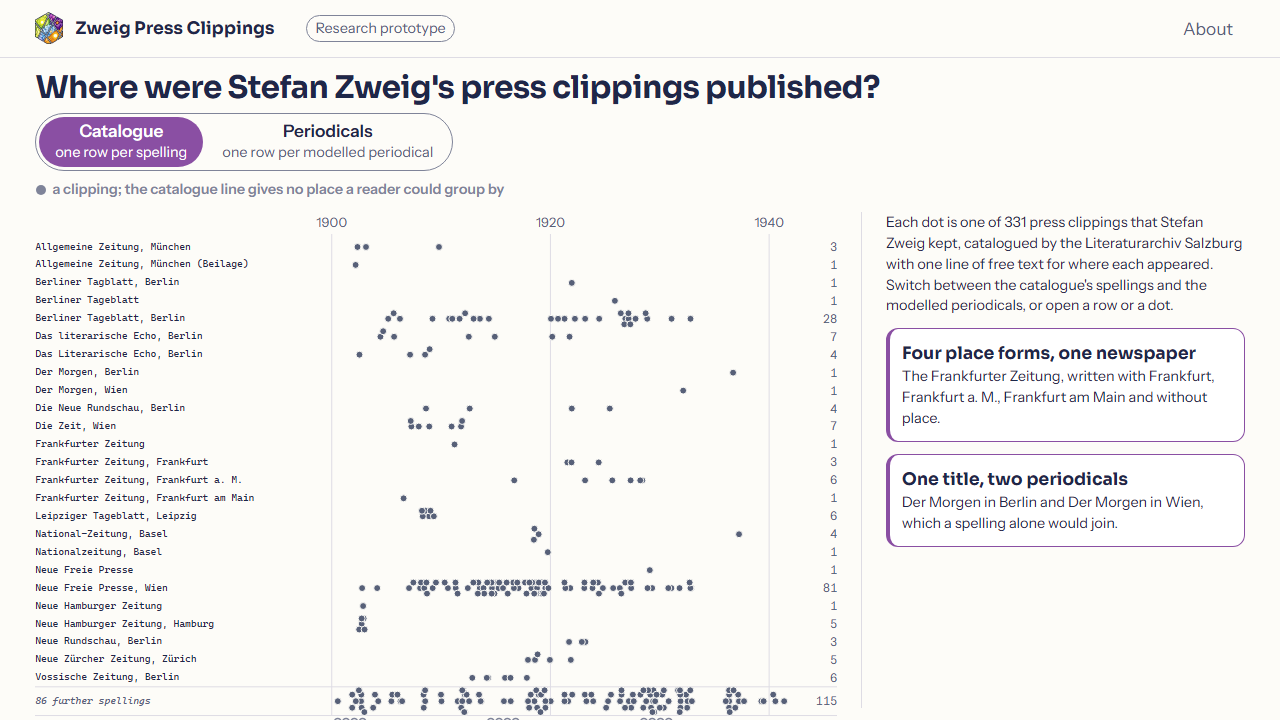
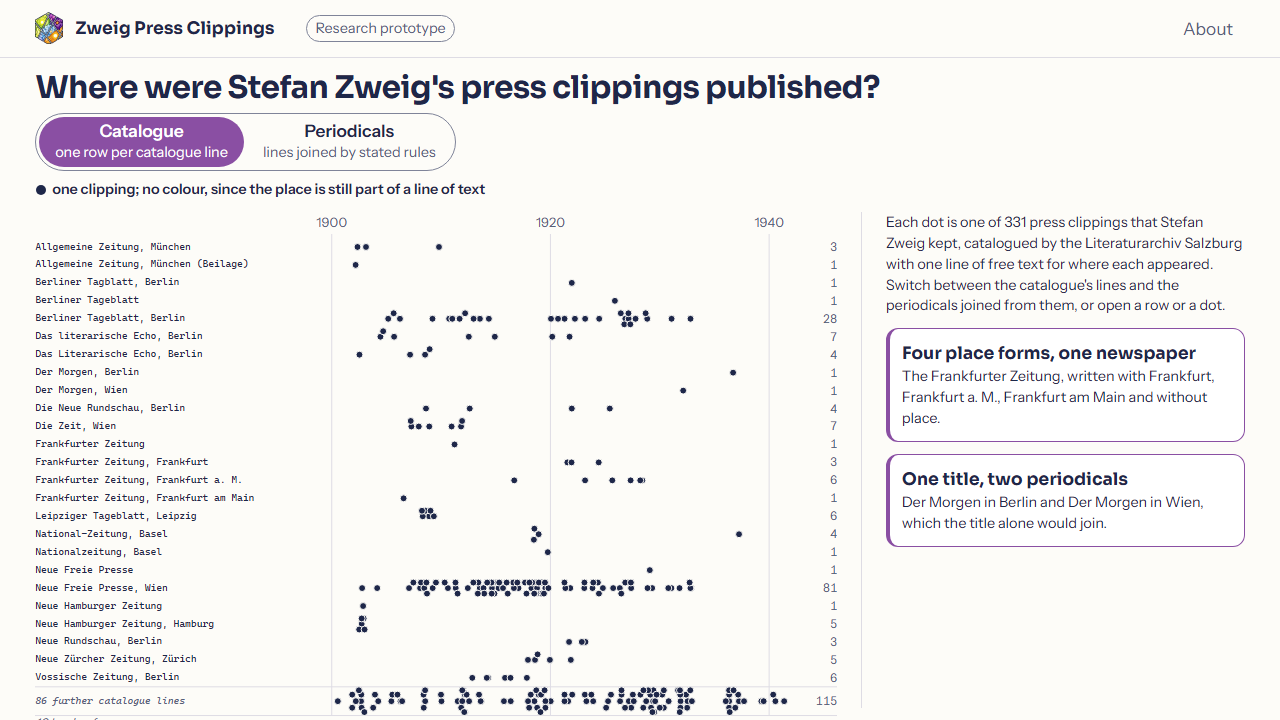
Fix keyboard focus, switch tab stop and not-read lanes; clarify wording after a second reading

diff --git a/docs/app.js b/docs/app.js
@@ -11,7 +11,7 @@ const MONTHS = ["January", "February", "March", "April", "May", "June", "July", 
   "September", "October", "November", "December"];
 const NOT_READ = [
   { status: "book", label: "book references" },
-  { status: "unread", label: "unread lines" },
+  { status: "unread", label: "lines the parser could not read" },
   { status: "none", label: "without publication line" },
 ];
 
@@ -70,7 +70,7 @@ function buildRows() {
   }
   const restForms = new Set(periodicals.filter((it) => !shownIds.has(it.entity)).map(written));
   const catalogue = [...forms.values()].sort((a, b) => a.label.localeCompare(b.label, "de"));
-  catalogue.push({ key: "rest", kind: "rest", label: `${restForms.size} further spellings`, entities: rest });
+  catalogue.push({ key: "rest", kind: "rest", label: `${restForms.size} further catalogue lines`, entities: rest });
   catalogue.push({ key: "notread", kind: "notread", label: "Not read as a periodical" });
 
   rowOf = (it, mode) => {
@@ -125,9 +125,12 @@ function positions(mode, L) {
     if (key === "notread") {
       const k = NOT_READ.findIndex((g) => g.status === it.status);
       const n = notread[it.status]++;
-      const perLine = Math.max(4, Math.floor((slotW - 150) / (r * 2.4)));
-      x = L.plotX0 + k * slotW + 6 + (n % perLine) * r * 2.4;
-      y = g.y + r + 3 + Math.floor(n / perLine) * r * 2.4;
+      // One lane per group; its label stands in the label column at the same height.
+      const step = r * 2.4;
+      const perLine = Math.max(4, Math.floor((L.plotX1 - L.plotX0 - 8) / step));
+      const lane = g.h / NOT_READ.length;
+      x = L.plotX0 + 4 + (n % perLine) * step;
+      y = g.y + (k + 0.5) * lane + Math.floor(n / perLine) * step;
     } else {
       x = xOf(it.date, L);
       const bin = `${key}|${Math.round(x / (r * 2.1))}`;
@@ -144,7 +147,7 @@ function positions(mode, L) {
 }
 
 // Group rows get more height: the remainder holds many periodicals, the not-read group holds
-// undated dots in a small grid with its counts written under them.
+// undated dots in three lanes, one per kind.
 function weightOf(row) {
   return row.kind === "notread" ? 3.2 : row.kind === "rest" ? 1.6 : 1;
 }
@@ -213,13 +216,6 @@ function render() {
   }
   const notes = svg.querySelector(".notes");
   notes.replaceChildren();
-  const nr = P.geo.byKey.get("notread");
-  const slotW = (L.plotX1 - L.plotX0) / 3;
-  NOT_READ.forEach((g, k) => {
-    const n = data.status[g.status] ?? 0;
-    const t = svgEl("text", { class: "groupnote", x: L.plotX0 + k * slotW + 6, y: nr.y + nr.h - 6 }, notes);
-    t.textContent = `${n} ${g.label}`;
-  });
 
   const dots = svg.querySelector(".dots");
   // The first placement and every resize set positions without animation; only a mode switch animates.
@@ -252,8 +248,8 @@ function render() {
 function renderKey() {
   const sw = (c, t) => `<span class="sw c-text-${c}"><svg aria-hidden="true" width="12" height="12"><circle cx="6" cy="6" r="5" fill="currentColor"/></svg>${t}</span>`;
   $("#key").innerHTML = state.mode === "model"
-    ? `Place of publication ${sw("Wien", "Wien")} ${sw("Berlin", "Berlin")} ${sw("other", "other places")} ${sw("unknown", "unknown")}<span class="sw">${icon("merge")}spellings joined</span><span class="sw">${icon("split")}one title, two periodicals</span>`
-    : `<span class="sw c-text-unknown"><svg aria-hidden="true" width="12" height="12"><circle cx="6" cy="6" r="5" fill="currentColor"/></svg>a clipping; the catalogue line gives no place a reader could group by</span>`;
+    ? `Place of publication ${sw("Wien", "Wien")} ${sw("Berlin", "Berlin")} ${sw("other", "other places")} ${sw("unknown", "unknown")}<span class="sw">${icon("merge")}written forms joined</span><span class="sw">${icon("split")}one title, two periodicals</span>`
+    : `<span class="sw c-text-catalogue"><svg aria-hidden="true" width="12" height="12"><circle cx="6" cy="6" r="5" fill="currentColor"/></svg>one clipping; no colour, since the place is still part of a line of text</span>`;
 }
 
 function renderLabels(rows, L, P) {
@@ -272,11 +268,14 @@ function renderLabels(rows, L, P) {
     b.type = "button";
     b.className = `rowlabel${row.kind === "rest" || row.kind === "notread" ? " group" : ""}`;
     b.style.top = `${g.y}px`;
-    b.style.blockSize = `${Math.min(g.h, P.rowH * 1.6)}px`;
+    b.style.blockSize = `${row.kind === "notread" ? g.h : Math.min(g.h, P.rowH * 1.6)}px`;
+    if (row.kind === "notread") b.setAttribute("aria-label", `Not read as a periodical: ${NOT_READ.map((x) => `${data.status[x.status] ?? 0} ${x.label}`).join(", ")}`);
     b.style.inlineSize = `${L.labelW}px`;
     b.style.fontSize = `${fontPx}px`;
     b.dataset.key = row.key;
-    let inner = `<span class="rl-name">${esc(row.label)}</span>`;
+    let inner = row.kind === "notread"
+      ? NOT_READ.map((x) => `<span class="rl-lane">${data.status[x.status] ?? 0} ${esc(x.label)}</span>`).join("")
+      : `<span class="rl-name">${esc(row.label)}</span>`;
     if (row.kind === "entity") {
       const e = row.entity;
       inner += `<span class="rl-place c-text-${e.city}">${esc(e.place ?? "place unknown")}</span>`;
@@ -287,7 +286,7 @@ function renderLabels(rows, L, P) {
     }
     b.innerHTML = inner;
     b.setAttribute("aria-pressed", String(isRowSelected(row)));
-    b.addEventListener("click", () => selectRow(row));
+    b.addEventListener("click", (ev) => { viaKeyboard(ev); selectRow(row); });
     box.appendChild(b);
     const cnt = document.createElement("span");
     cnt.className = "rowcount";
@@ -327,7 +326,10 @@ function applySelection() {
 function setMode(mode) {
   if (state.mode === mode) return;
   state.mode = mode;
-  document.querySelectorAll(".mode button").forEach((b) => b.setAttribute("aria-checked", String(b.dataset.mode === mode)));
+  document.querySelectorAll(".mode button").forEach((b) => {
+    b.setAttribute("aria-checked", String(b.dataset.mode === mode));
+    b.tabIndex = b.dataset.mode === mode ? 0 : -1;
+  });
   render();
   $("#live").textContent = mode === "model" ? "Showing one row per periodical." : "Showing one row per catalogue spelling.";
 }
@@ -339,23 +341,40 @@ function selectRow(row) {
 }
 
 function select(sel, html) {
+  if (state.kbOpen) state.returnTo = document.activeElement;
   state.selected = sel;
   applySelection();
   const panel = $("#panel");
   panel.innerHTML = (sel ? `<button type="button" class="back" aria-label="Back to the overview">${icon("close")}</button>` : "") + html;
-  panel.querySelector(".back")?.addEventListener("click", () => openHome(true));
-  panel.querySelectorAll("[data-entity]").forEach((b) => b.addEventListener("click", () => openEntity(b.dataset.entity)));
-  panel.querySelectorAll("[data-pid]").forEach((b) => b.addEventListener("click", () => openItem(b.dataset.pid)));
-  panel.querySelectorAll("[data-case]").forEach((b) => b.addEventListener("click", () => openCase(b.dataset.case)));
+  panel.querySelector(".back")?.addEventListener("click", () => closePanel());
+  panel.querySelectorAll("[data-entity]").forEach((b) => b.addEventListener("click", (ev) => { viaKeyboard(ev); openEntity(b.dataset.entity); }));
+  panel.querySelectorAll("[data-pid]").forEach((b) => b.addEventListener("click", (ev) => { viaKeyboard(ev); openItem(b.dataset.pid); }));
+  panel.querySelectorAll("[data-case]").forEach((b) => b.addEventListener("click", (ev) => { viaKeyboard(ev); openCase(b.dataset.case); }));
   panel.scrollTop = 0;
+  if (state.kbOpen) panel.focus();
+  state.kbOpen = false;
+}
+
+// Keyboard activation (Enter, Space, or a click event without pointer) moves focus into the panel.
+function viaKeyboard(ev) {
+  state.kbOpen = !ev || ev.detail === 0;
+}
+
+// Back to the overview; focus returns to the row or dot that opened the panel.
+function closePanel() {
+  const back = state.returnTo;
+  state.returnTo = null;
+  openHome(false);
+  if (back && back.isConnected && back !== document.body) back.focus();
+  else $("#panel").focus();
 }
 
 function openHome(focus) {
   const total = data.items.length;
   select(null, `
-    <p>Each dot is one of ${total} press clippings that Stefan Zweig kept, catalogued by the Literaturarchiv Salzburg with one line of free text for where each appeared. Switch between the catalogue's spellings and the modelled periodicals, or open a row or a dot.</p>
+    <p>Each dot is one of ${total} press clippings that Stefan Zweig kept, catalogued by the Literaturarchiv Salzburg with one line of free text for where each appeared. Switch between the catalogue's lines and the periodicals joined from them, or open a row or a dot.</p>
     <button type="button" class="case" data-case="frankfurter"><strong>Four place forms, one newspaper</strong>The Frankfurter Zeitung, written with Frankfurt, Frankfurt a. M., Frankfurt am Main and without place.</button>
-    <button type="button" class="case" data-case="morgen"><strong>One title, two periodicals</strong>Der Morgen in Berlin and Der Morgen in Wien, which a spelling alone would join.</button>
+    <button type="button" class="case" data-case="morgen"><strong>One title, two periodicals</strong>Der Morgen in Berlin and Der Morgen in Wien, which the title alone would join.</button>
   `);
   if (focus) $("#panel").focus();
 }
@@ -431,8 +450,8 @@ function openItem(pid) {
     <h2>${esc(it.title)}</h2>
     ${img}
     <div class="compare">
-      <div><div class="k">Catalogue</div>${it.raw ? `<span class="str">${esc(it.raw)}</span>` : "<em>no reference</em>"}</div>
-      <div><div class="k">Model</div>${model}</div>
+      <div><div class="k">Catalogue line</div>${it.raw ? `<span class="str">${esc(it.raw)}</span>` : "<em>no reference</em>"}</div>
+      <div><div class="k">Read by the parser as</div>${model}</div>
     </div>
     ${it.decisions.map((d) => `<p class="decision">${icon(d.kind === "alias" ? "merge" : d.kind)}<span>${esc(d.text)}</span></p>`).join("")}
     <p><span class="status">machine-parsed, not verified</span></p>
@@ -469,7 +488,10 @@ function moveFocus(delta) {
 }
 
 function wire() {
-  document.querySelectorAll(".mode button").forEach((b) => b.addEventListener("click", () => setMode(b.dataset.mode)));
+  document.querySelectorAll(".mode button").forEach((b) => {
+    b.addEventListener("click", () => setMode(b.dataset.mode));
+    b.tabIndex = b.dataset.mode === state.mode ? 0 : -1;
+  });
   $(".mode").addEventListener("keydown", (ev) => {
     if (ev.key === "ArrowLeft" || ev.key === "ArrowRight") {
       const next = state.mode === "catalogue" ? "model" : "catalogue";
@@ -498,6 +520,7 @@ function wire() {
       moveFocus(state.focusIndex < 0 ? 1 : map[ev.key]);
       ev.preventDefault();
     } else if ((ev.key === "Enter" || ev.key === " ") && state.focusIndex >= 0) {
+      state.kbOpen = true;
       openItem(orderedItems()[state.focusIndex].pid);
       ev.preventDefault();
     } else if (ev.key === "Escape") {
@@ -506,7 +529,7 @@ function wire() {
   });
   svg.addEventListener("blur", () => { $("#tip").hidden = true; dotEls.forEach((c) => c.classList.remove("kfocus")); });
   document.addEventListener("keydown", (ev) => {
-    if (ev.key === "Escape" && state.selected && !document.querySelector(".about:popover-open")) openHome(false);
+    if (ev.key === "Escape" && state.selected && !document.querySelector(".about:popover-open")) closePanel();
   });
   let t;
   window.addEventListener("resize", () => { clearTimeout(t); t = setTimeout(() => { state.instant = true; render(); }, 120); });

diff --git a/docs/style.css b/docs/style.css
@@ -61,6 +61,9 @@ h1 { margin: 0; font: 700 var(--dh-step-2)/1.15 var(--dh-font-display); }
 .rl-icons .dh-icon { inline-size: 1.05em; block-size: 1.05em; }
 .mode-catalogue .rl-name { font-family: var(--dh-font-mono); font-size: .82em; }
 .rowlabel.group .rl-name { color: var(--dh-ink-soft); font-style: italic; }
+.rowlabel[data-key="notread"] { flex-direction: column; align-items: stretch; justify-content: space-around; }
+.rl-lane { color: var(--dh-ink-soft); font-style: italic; white-space: nowrap; overflow: hidden; text-overflow: ellipsis; }
+.rowlabel:hover .rl-lane, .rowlabel:focus-visible .rl-lane { text-decoration: underline; }
 .rowcount { position: absolute; inset-inline-end: 0; font-variant-numeric: tabular-nums; color: var(--dh-ink-soft); font-size: var(--dh-step--1); transition: transform .5s; }
 
 .axis text { fill: var(--dh-ink-soft); font: 400 13px var(--dh-font-text); }
@@ -72,7 +75,8 @@ h1 { margin: 0; font: 700 var(--dh-step-2)/1.15 var(--dh-font-display); }
 .dot.c-other { fill: var(--c-other); }
 .dot.c-unknown { fill: var(--c-unknown); }
 /* The catalogue does not know the city; colour appears only once the place is modelled. */
-.mode-catalogue .dot:not(.hollow) { fill: var(--dh-ink-soft); }
+.mode-catalogue .dot:not(.hollow) { fill: var(--dh-ink); }
+.c-text-catalogue { color: var(--dh-ink); }
 .dot.hollow { fill: var(--dh-ground); stroke: var(--c-unknown); stroke-width: 1.6; }
 .dot.dim { opacity: .18; }
 .dot.sel { stroke: var(--dh-ink); stroke-width: 2.5; }

diff --git a/docs/index.html b/docs/index.html
@@ -32,8 +32,8 @@
   <div class="intro">
     <h1>Where were Stefan Zweig's press clippings published?</h1>
     <div class="mode" role="radiogroup" aria-label="Show the references as">
-      <button type="button" role="radio" aria-checked="true" data-mode="catalogue"><span class="mode-k">Catalogue</span> one row per spelling</button>
-      <button type="button" role="radio" aria-checked="false" data-mode="model"><span class="mode-k">Periodicals</span> one row per modelled periodical</button>
+      <button type="button" role="radio" aria-checked="true" data-mode="catalogue"><span class="mode-k">Catalogue</span> one row per catalogue line</button>
+      <button type="button" role="radio" aria-checked="false" data-mode="model"><span class="mode-k">Periodicals</span> lines joined by stated rules</button>
     </div>
     <p class="key" id="key"></p>
   </div>

diff --git a/knowledge/journal.md b/knowledge/journal.md
@@ -17,10 +17,17 @@ template: journal
 - Publication waits for the operator's word: creating a public GitHub repository, setting the remote and switching on Pages (folder `docs/` on `main`). Until then the footer has no source-code link; add it when the repository exists.
 - Licence conflict to confirm: the TEI catalogue says CC BY-NC 4.0, the stefanzweig.digital imprint says all content CC BY 4.0. The site follows each statement for its own material (catalogue-derived data BY-NC, facsimiles BY). The facsimiles reproduce printed texts of third parties, whose rights the archive's statement may not cover.
 - No parsed field and no join has been checked against the facsimiles. Status of all of them: proposal (agent, 2026-11-15).
-- Not seen by the operator on screen yet.
+- Not seen by the operator on screen yet. A columns variant built from the GOSSIP role field is under consideration; if decided, it is built beside this state, never in place of it.
 - Model mode was not measured by the density check, which reads the entry state only.
 
 ## Entries
+
+### 2026-11-15 Second reading, keyboard path, 200 per cent zoom
+
+- Trigger: request of the Research Coordination before the operator's review.
+- Found: focus stayed in the figure after opening a clipping, so the panel was reachable only past every row; both switch buttons were tab stops; the three not-read groups overlapped and sat under the year axis, read as years; a second fresh reader found "spelling", "modelled", "Model" and "unread" unclear and the catalogue grey confusable with "unknown".
+- Changed: keyboard opening moves focus to the panel and Escape returns it; switch has one tab stop; not-read groups as three labelled lanes; wording of switch, key, panel and groups; catalogue dots in ink.
+- Evidence: Playwright keyboard script, all steps pass; 200 per cent zoom (640 x 360 CSS) without horizontal scroll; density check passes at 1280 and 360.
 
 ### 2026-11-15 Instrument built and checked
 
